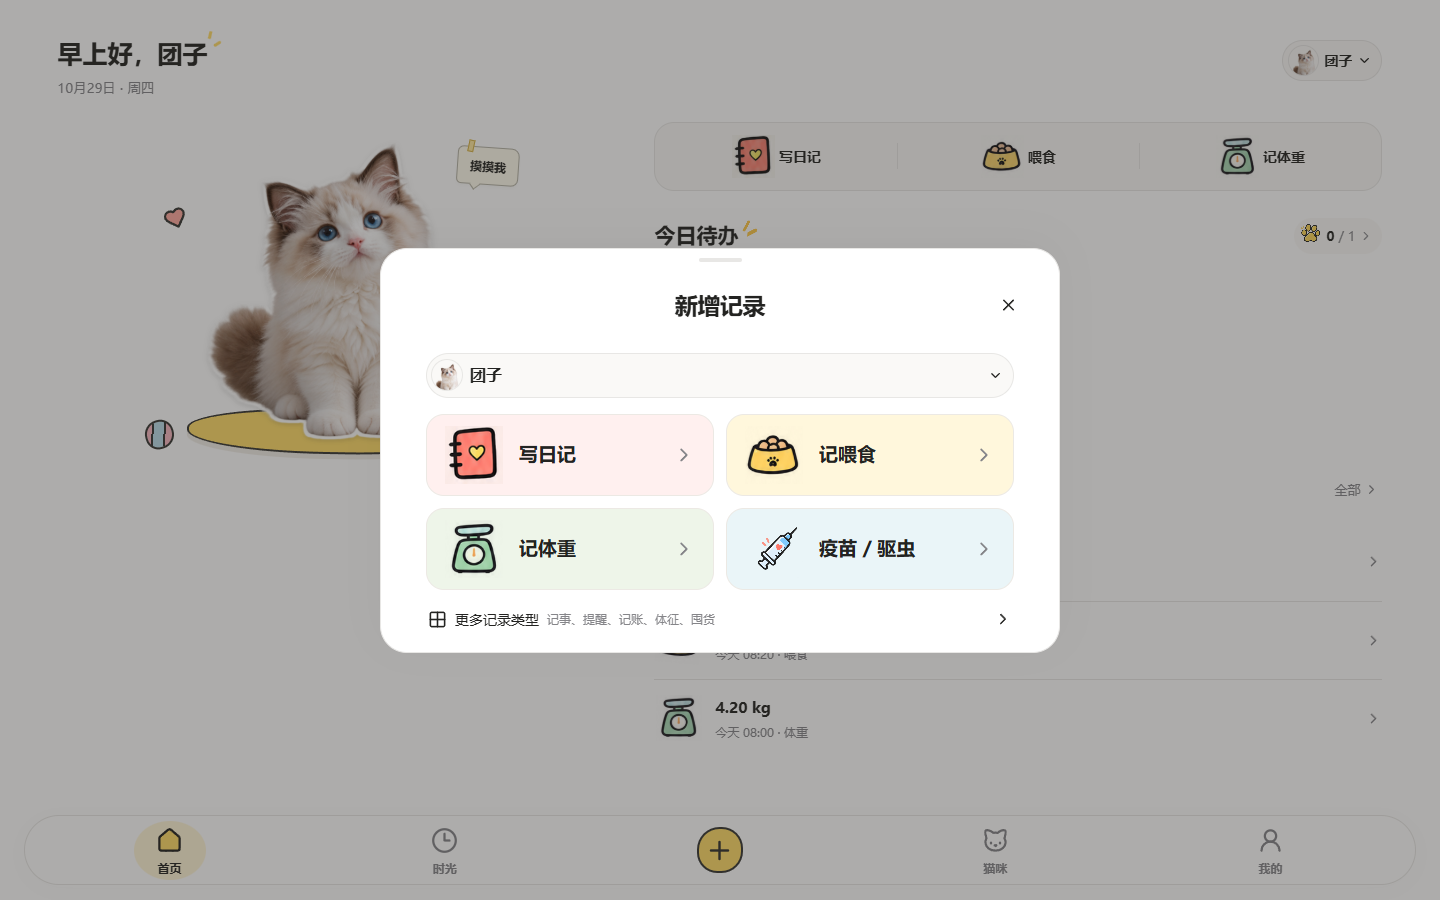
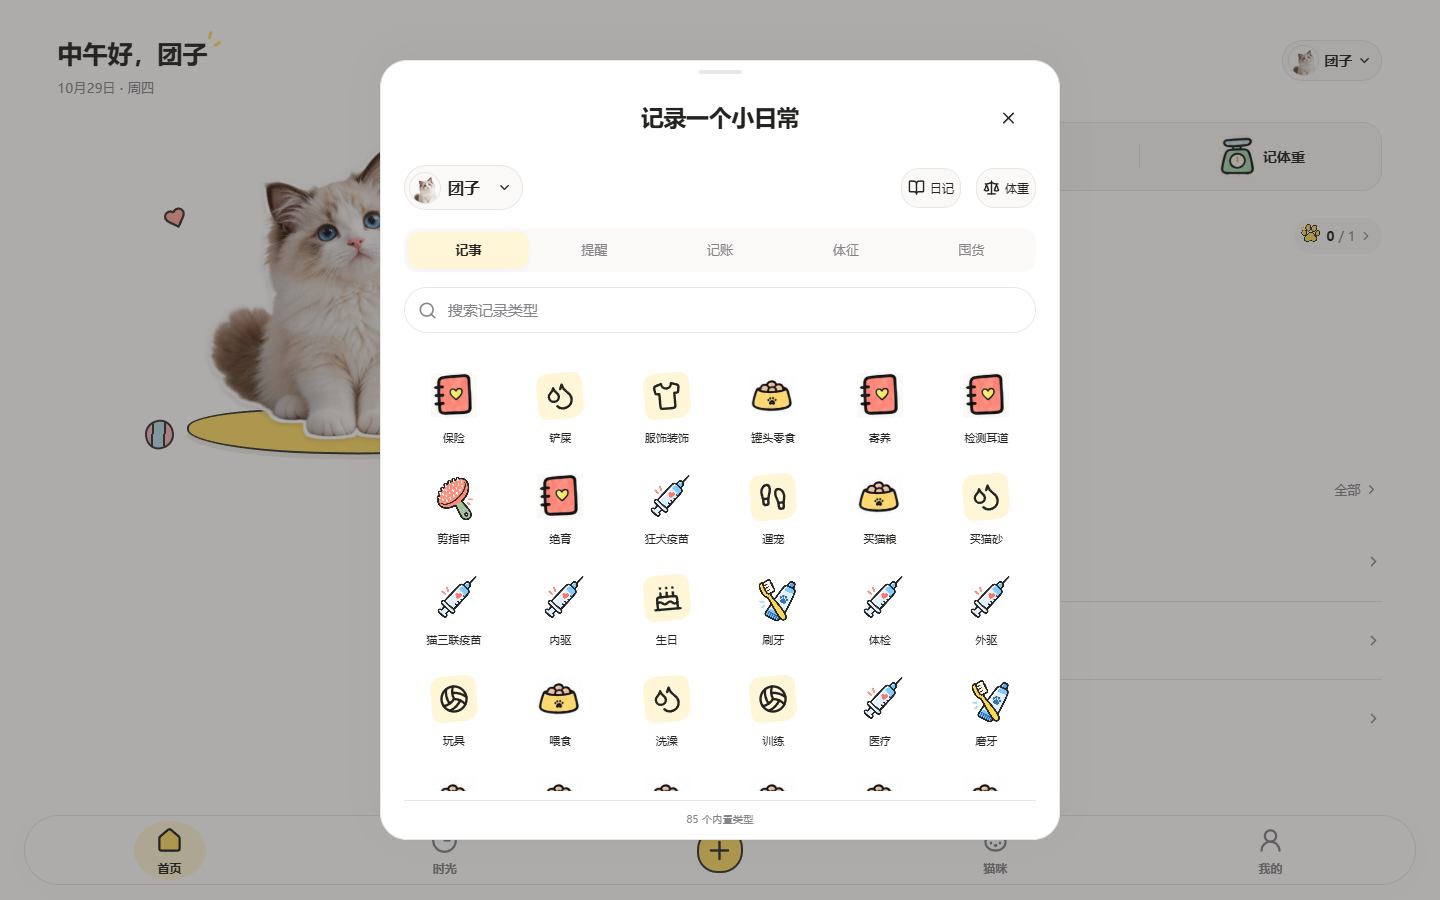
fix: restore original add-record catalog

diff --git a/qa/design-alignment.html b/qa/design-alignment.html
@@ -6,7 +6,7 @@
 *{box-sizing:border-box}body{margin:0;font:15px/1.65 "Microsoft YaHei",sans-serif;color:#292925;background:#f7f6f2}header{padding:28px clamp(20px,4vw,64px);background:white;border-bottom:1px solid #e6e5e0}h1{font-size:27px;margin:0 0 8px}p{margin:0;color:#777}a{color:#655414}nav{display:flex;gap:12px;align-items:center;flex-wrap:wrap;margin-top:22px}button,select{font:inherit;background:#fff;border:1px solid #deddd7;border-radius:12px;padding:9px 14px;color:inherit}button{cursor:pointer}button:hover{background:#fff0b6}select{max-width:100%}main{padding:24px clamp(20px,4vw,64px)}.compare{display:grid;grid-template-columns:1fr 1fr;gap:24px;align-items:start}figure{margin:0;background:white;border:1px solid #e6e5e0;border-radius:18px;padding:15px;min-width:0}figcaption{margin-bottom:14px;font-weight:bold}figure img{display:block;max-width:100%;height:auto;margin:auto}#reference{width:375px}#implementation{width:375px}.index{margin-top:30px;display:flex;gap:8px;flex-wrap:wrap}.index button[aria-pressed=true]{background:#ffdc69;border-color:#292925}small{font-size:12px;color:#888}@media(max-width:600px){.compare{gap:10px}figure{padding:7px}figcaption{font-size:12px}main{padding:15px 8px}header{padding:20px 16px}nav{gap:7px}button,select{padding:7px;font-size:13px}}
 </style>
 <header><h1>喵日记 · 单页设计对照</h1><p>设计图与实际浏览器截图并排查看。界面使用独立测试数据；手机端保持单列，宽屏展开布局。</p><small>原图中的系统状态栏不属于网页。第 13 张旧建档图由第 21–33 张猫咪建档流程取代。</small><nav><button id="previous">← 上一页</button><select id="page" aria-label="选择页面"></select><button id="next">下一页 →</button><select id="size" aria-label="选择屏幕宽度"><option value="full">手机长图 · 375px</option><option value="375">手机 · 375px</option><option value="320">小屏 · 320px</option><option value="768">平板 · 768px</option><option value="1440">桌面 · 1440px</option></select><a href="/" target="_blank">打开 App</a></nav></header>
-<main><div class="compare"><figure><figcaption id="ref-title">设计图</figcaption><img id="reference" alt="原始单页设计"></figure><figure><figcaption id="impl-title">实际页面</figcaption><img id="implementation" alt="浏览器实测截图"></figure></div><div class="index" id="index"></div></main>
+<main><p style="margin-bottom:16px">第 05 页新增记录已按最新要求恢复原版：记事、提醒、记账、体征、囤货五类选择面板。</p><div class="compare"><figure><figcaption id="ref-title">设计图</figcaption><img id="reference" alt="原始单页设计"></figure><figure><figcaption id="impl-title">实际页面</figcaption><img id="implementation" alt="浏览器实测截图"></figure></div><div class="index" id="index"></div></main>
 <script>
 const pages=[
 ['01_首页','01-home'],['02_时光','02-timeline'],['03_体重趋势','03-weight'],['04_宠物档案','04-profile'],['05_快捷添加','05-quick-add',true],['06_写日记','06-diary'],['07_记录喂食','07-food'],['08_提醒与待办','08-reminders'],['09_宠物列表','09-cats'],['10_Q版形象编辑','10-appearance'],['11_疫苗驱虫','11-health'],['12_照片墙','12-photos'],['14_分享卡片','14-share'],['15_可读资料导出','15-export'],['16_我的','16-me'],['17_时光宠物筛选','17-filter',true],['18_外观与显示','18-display'],['19_通知与提醒设置','19-notifications'],['20_本地数据管理','20-storage'],

diff --git a/src/design.css b/src/design.css
@@ -41,17 +41,6 @@ html[data-theme='dark'] .reference-icon { mix-blend-mode: normal; border-radius:
 .sheet-header .icon-button { position: absolute; right: 12px; background: none; }
 .sheet-handle { width: 43px; height: 4px; }
 .sheet-overlay { backdrop-filter: none; background: #27262261; }
-.quick-sheet { padding-bottom: 22px; }
-.quick-sheet > .pet-select { margin: 0 22px 16px; width: calc(100% - 44px); }
-.quick-record-list { display: grid; gap: 12px; padding: 0 22px; }
-.quick-record { display: flex; align-items: center; gap: 16px; border-radius: 18px; padding: 11px 18px; border: 1px solid #ece9e4; background: #fff0ef; text-align: left; }
-.quick-record.food { background: #fff7dc; }
-.quick-record.weight { background: #eef5e9; }
-.quick-record.health { background: #eaf5f8; }
-.quick-record strong { flex: 1; font-size: 19px; }
-.quick-record > svg { color: #858589; }
-.more-records { display: flex; align-items: center; flex-wrap: wrap; gap: 8px; padding: 19px 24px 0; width: 100%; text-align: left; font-size: 14px; }
-.more-records span { flex: 1; font-size: 12px; color: var(--muted); }
 .bottom-nav { height: 70px; left: 14px; right: 14px; bottom: max(11px, env(safe-area-inset-bottom)); padding: 4px 7px; border-radius: 42px; box-shadow: 0 4px 20px #25252005; }
 .nav-item { width: 59px; min-height: 59px; }
 .nav-item > span { height: 34px; }
@@ -362,7 +351,6 @@ html[data-theme='dark'] .reference-icon { mix-blend-mode: normal; border-radius:
   .app-scroll .page-content { padding-inline: clamp(28px, 4vw, 64px); }
   .app-scroll .topbar { padding-inline: clamp(24px, 4vw, 60px); }
   .sheet { border-radius: 27px; width: min(680px, calc(100vw - 48px)); }
-  .quick-record-list { grid-template-columns: repeat(2, minmax(0, 1fr)); }
   .photo-grid { grid-template-columns: repeat(auto-fill, minmax(165px, 1fr)); gap: 22px; }
   .timeline-list { grid-template-columns: repeat(auto-fit, minmax(330px, 1fr)); column-gap: 40px; }
   .timeline-toolbar { max-width: 600px; }
@@ -421,10 +409,6 @@ html[data-theme='dark'] .reference-icon { mix-blend-mode: normal; border-radius:
   .appearance-pet > .primary { grid-column: 1 / -1; }
 }
 html[data-theme='dark'] { --ink: #edece7; --muted: #acaeaa; --border: #42443f; --secondary: #2c2e29; --wash: #423c29; --paper: #353329; }
-html[data-theme='dark'] .quick-record { background: #3b302f; border-color: var(--border); }
-html[data-theme='dark'] .quick-record.food { background: #3c3729; }
-html[data-theme='dark'] .quick-record.weight { background: #2e392c; }
-html[data-theme='dark'] .quick-record.health { background: #29363b; }
 html[data-theme='dark'] .share-card { background: var(--surface); }
 html[data-theme='dark'] .theme-picker > button.selected { border-color: var(--yellow); }
 @media (prefers-reduced-motion: reduce) { *, *::before, *::after { animation: none !important; transition: none !important; scroll-behavior: auto !important; } }

diff --git a/src/Sheets.jsx b/src/Sheets.jsx
@@ -23,20 +23,6 @@ import {
   Segmented,
 } from "./ui";
 
-function QuickAdd({ a }) {
-  const [petId, setPetId] = useState(a.currentPet.id);
-  return <Sheet title="新增记录" className="quick-sheet" onClose={() => a.setSheet(null)}>
-    <PetSelect pets={a.data.pets} value={petId} onChange={setPetId} />
-    <div className="quick-record-list">
-      {[["diary", "BookOpen", "写日记"], ["food", "Soup", "记喂食"], ["weight", "Scale", "记体重"], ["health", "Syringe", "疫苗 / 驱虫"]].map(([group, icon, label]) =>
-        <button key={group} className={`quick-record ${group}`} onClick={() => { a.setSheet(null); a.openForm(group, group === "health" ? "猫三联疫苗" : undefined, petId); }}>
-          <StickerIcon name={icon} size={58} /><strong>{label}</strong><Icon name="ChevronRight" />
-        </button>)}
-    </div>
-    <button className="more-records" onClick={() => a.setSheet({ kind: "types", petId })}><Icon name="Grid2X2" size={19} />更多记录类型<span>记事、提醒、记账、体征、囤货</span><Icon name="ChevronRight" size={18} /></button>
-  </Sheet>;
-}
-
 export function Catalog({ a, sheet }) {
   const [group, setGroup] = useState(sheet.group || "note"),
     [search, setSearch] = useState(""),
@@ -351,7 +337,6 @@ export function FilterSheet({ a }) {
 export function AppSheets({ a }) {
   const s = a.sheet;
   if (!s) return null;
-  if (s.kind === "quick") return <QuickAdd a={a} />;
   if (s.kind === "types") return <Catalog a={a} sheet={s} />;
   if (s.kind === "filters") return <FilterSheet a={a} />;
   if (s.kind === "pets")

diff --git a/src/App.jsx b/src/App.jsx
@@ -384,7 +384,7 @@ export default function App() {
                 key={id}
                 className="nav-add"
                 aria-label="新增记录"
-                onClick={() => setSheet({ kind: "quick" })}
+                onClick={() => setSheet({ kind: "types" })}
               >
                 <Icon name="Plus" size={29} />
               </button>
